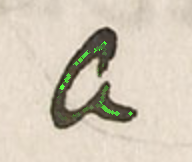
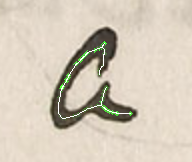
digital brush sample

diff --git a/skeleton.py b/skeleton.py
@@ -1,0 +1,140 @@
+#AUTHOR: Bu Dian
+from skimage.morphology import thin, skeletonize,medial_axis
+from skimage import data
+import matplotlib.pyplot as plt
+from skimage.util import invert
+from PIL import Image
+import numpy as np
+
+# Invert the horse image
+     #invert(data.horse())
+#image = Image.open('geroba-16-cut.jpg')
+
+#selanjutnya proses di c:\python27\chaincode.py
+import cv2
+#image = cv2.imread("mnist-asf.jpg")
+#image = cv2.imread("mnist-asf.jpg")
+image = cv2.imread("0001_b.png")#"aksara-kuno-1.jpg")
+image = cv2.cvtColor(image, cv2.COLOR_BGR2GRAY)
+cv2.imshow('Gray', image)
+
+# Convert image in grayscale
+gray_im = image #cv2.cvtColor(original, cv2.COLOR_BGR2GRAY)
+#plt.subplot(221)
+#plt.title('Grayscale image')
+#plt.imshow(gray_im, cmap="gray", vmin=0, vmax=255)
+
+# Contrast adjusting with gamma correction y = 1.2
+gray_correct = np.array(255 * (gray_im / 255) ** 2.2 , dtype='uint8')
+#plt.subplot(223)
+#plt.title('Gamma Correction y= 1.2')
+#plt.imshow(gray_correct, cmap="gray", vmin=0, vmax=255)
+cv2.imshow('CorrectGray', gray_correct)
+image = gray_correct
+
+
+
+image = cv2.bitwise_not(image) #inverse bw
+
+
+  
+# Finding Contours 
+# Use a copy of the image e.g. edged.copy() 
+# since findContours alters the image 
+contours, hierarchy = cv2.findContours(image,  
+    cv2.RETR_EXTERNAL, cv2.CHAIN_APPROX_TC89_KCOS)  #cv2.CHAIN_APPROX_NONE) 
+
+
+
+# Grayscale 
+#gray =  #cv2.cvtColor(image, cv2.COLOR_BGR2GRAY) 
+  
+# Find Canny edges 
+edged = cv2.Canny(image, 30, 200) 
+cv2.waitKey(0) 
+  
+cv2.imshow('Canny Edges After Contouring', edged) 
+#cv2.waitKey(0) 
+  
+print("Number of Contours found = " + str(len(contours))) 
+  
+# Draw all contours 
+# -1 signifies drawing all contours 
+cv2.drawContours(image, contours, -1, (0, 255, 0), 3) 
+  
+cv2.imshow('Contours', image)
+#mask=image
+#cv2.waitKey(0) 
+#cv2.destroyAllWindows() 
+
+
+
+#mask = cv2.threshold(image,60,255,cv2.THRESH_BINARY) 
+#image = cv2.cvtColor(image, cv2.COLOR_BGR2GRAY)
+
+
+image = cv2.bitwise_not(image) #inverse bw
+
+
+ret,mask = cv2.threshold(image,127,255,cv2.THRESH_OTSU) #cv2.THRESH_BINARY) #127
+#thresh = cv2.adaptiveThreshold(gray_correct, 255, cv2.ADAPTIVE_THRESH_GAUSSIAN_C, cv2.THRESH_BINARY, 255, 19)
+#thresh = cv2.bitwise_not(thresh)
+#plt.show()
+
+    # get the contours in the thresholded image
+#(_, cnts, _) = cv2.findContours(thresholded.copy(), cv2.RETR_EXTERNAL, cv2.CHAIN_APPROX_SIMPLE)
+contours2, hierarchy = cv2.findContours(mask,  cv2.RETR_EXTERNAL, cv2.CHAIN_APPROX_TC89_KCOS)  #cv2.CHAIN_APPROX_NONE) 
+print("Again Number of Contours found = " + str(len(contours2))) 
+
+cv2.drawContours(mask, contours2, -1, (0, 255, 0), 3) 
+
+cv2.imshow('newContours2', mask)
+ret,mask = cv2.threshold(mask,127,255,cv2.THRESH_OTSU)#cv2.THRESH_BINARY) #127
+cv2.imshow('newThres', mask)
+
+
+mask = cv2.bitwise_not(mask) #inverse bw
+
+#mask = np.zeros(image.shape[:2], dtype="uint8")
+#cv2.rectangle(mask, (0, 90), (290, 450), 255, -1)
+#cv2.imshow("Rectangular Mask", mask)
+# apply our mask -- notice how only the person in the image is
+# cropped out
+# perform skeletonization
+skeleton = cv2.ximgproc.thinning(mask, thinningType = cv2.ximgproc.THINNING_ZHANGSUEN) # prefers straight lines
+
+#skeleton = thin(mask) #skeletonize(mask, method='lee') #thin(mask)#medial_axis(mask)  #untuk 0005_l.png
+#morphology.skeletonize(mask, method='lee'), morphology.medial_axis(mask), or morphology.thin(mask)
+
+# display results
+fig, axes = plt.subplots(nrows=1, ncols=3, figsize=(8, 4),
+                         sharex=True, sharey=True)
+
+ax = axes.ravel()
+
+ax[0].imshow(image, cmap=plt.cm.gray)
+ax[0].axis('off')
+ax[0].set_title('original', fontsize=20)
+
+
+ax[1].set_title('Threshold', fontsize=20)
+ax[1].imshow(mask, cmap="gray", vmin=0, vmax=255)
+ax[1].axis('off')
+
+ax[2].imshow(skeleton, cmap=plt.cm.gray)
+ax[2].axis('off')
+ax[2].set_title('skeleton', fontsize=20)
+plt.imsave('skeleton-out.jpg', skeleton, cmap='gray')
+
+
+fig.tight_layout()
+
+
+
+plt.show()
+
+#masked = cv2.bitwise_and(image, image, mask=mask)
+#cv2.imshow("Mask Applied to Image", mask)
+#cv2.waitKey(0) 
+#cv2.destroyAllWindows() 
+

diff --git a/scribe.py b/scribe.py
@@ -17,32 +17,38 @@ width= image.shape[1]
 image_gray= cv.cvtColor(cv.bitwise_not(image), cv.COLOR_BGR2GRAY)
 ret, image_thresh = cv.threshold(image_gray, 0, 240, cv.THRESH_OTSU) # other thresholding method may also work
 image_thin = cv.ximgproc.thinning(image_thresh, thinningType = cv.ximgproc.THINNING_ZHANGSUEN) # prefers straight lines
-#image_thin = cv.ximgproc.thinning(image_thresh, thinningType = THINNING_GUOHALL)  # prefers squiggly lines
+#image_thin = cv.ximgproc.thinning(image_thresh, thinningType = cv.ximgproc.THINNING_GUOHALL)  # prefers squiggly lines
 
-#SIMPLE
 #contours, hierarchy = cv.findContours(image_thin, cv.RETR_LIST, cv.CHAIN_APPROX_SIMPLE) # 200 for 0000_a
 #contours, hierarchy = cv.findContours(image_thin, cv.RETR_LIST, cv.CHAIN_APPROX_TC89_L1) # 103 for 0000_a
 contours, hierarchy = cv.findContours(image_thin, cv.RETR_LIST, cv.CHAIN_APPROX_TC89_KCOS) # 95 for 0000_a
-arr= np.array(contours)
-print("{}: {} points".format(filename, arr.shape[1]))
+#print("{}: {} contours".format(filename, len(contours)))
+#print(contours)
+#arr= np.array(contours)
+#print("{}: {} points".format(filename, arr.shape))
+#print("{}: {} points".format(filename, arr.shape[1]))
 
 #someoverlay
-overlay = np.zeros([height, width, 3], dtype=np.uint8)
-contour_length= arr.shape[1]
-for i in range(contour_length):
-    x= arr[0,i,0,0];
-    y= arr[0,i,0,1];
-    cv.circle(overlay, (x,y), 2, (0,int(COLOR_MAX - i*COLOR_RANGE/contour_length),0), -1)
+#overlay = np.zeros([height, width, 3], dtype=np.uint8)
+#contour_length= arr.shape[1]
+#for i in range(contour_length):
+#    x= arr[0,i,0,0];
+#    y= arr[0,i,0,1];
+#    cv.circle(overlay, (x,y), 2, (0,int(COLOR_MAX - i*COLOR_RANGE/contour_length),0), -1)
 
-#cv.imshow('a', image_gray)
-#cv.imshow('b', image_thresh)
-#cv.imshow('c', image_thin)
+cv.imshow('a', image_gray)
+cv.imshow('b', image_thresh)
+cv.imshow('c', image_thin)
+#cv.imwrite('1.png', image_gray)
+#cv.imwrite('2.png', image_thresh)
+#cv.imwrite('3.png', image_thin)
 #render= cv.cvtColor(image_thin, cv.COLOR_GRAY2BGR)
-render= cv.bitwise_or(image, overlay)
-cv.imwrite(sys.argv[2], render)
-
+#render= cv.bitwise_or(render, image)
+#render= cv.bitwise_or(render, overlay)
+#cv.imwrite(sys.argv[2], render)
 #cv.imshow('c', render)
-#key = cv.waitKey(0) & 0xff
-#if key==27:
-#    quit()
+
+key = cv.waitKey(0) & 0xff
+if key==27:
+    quit()
     
